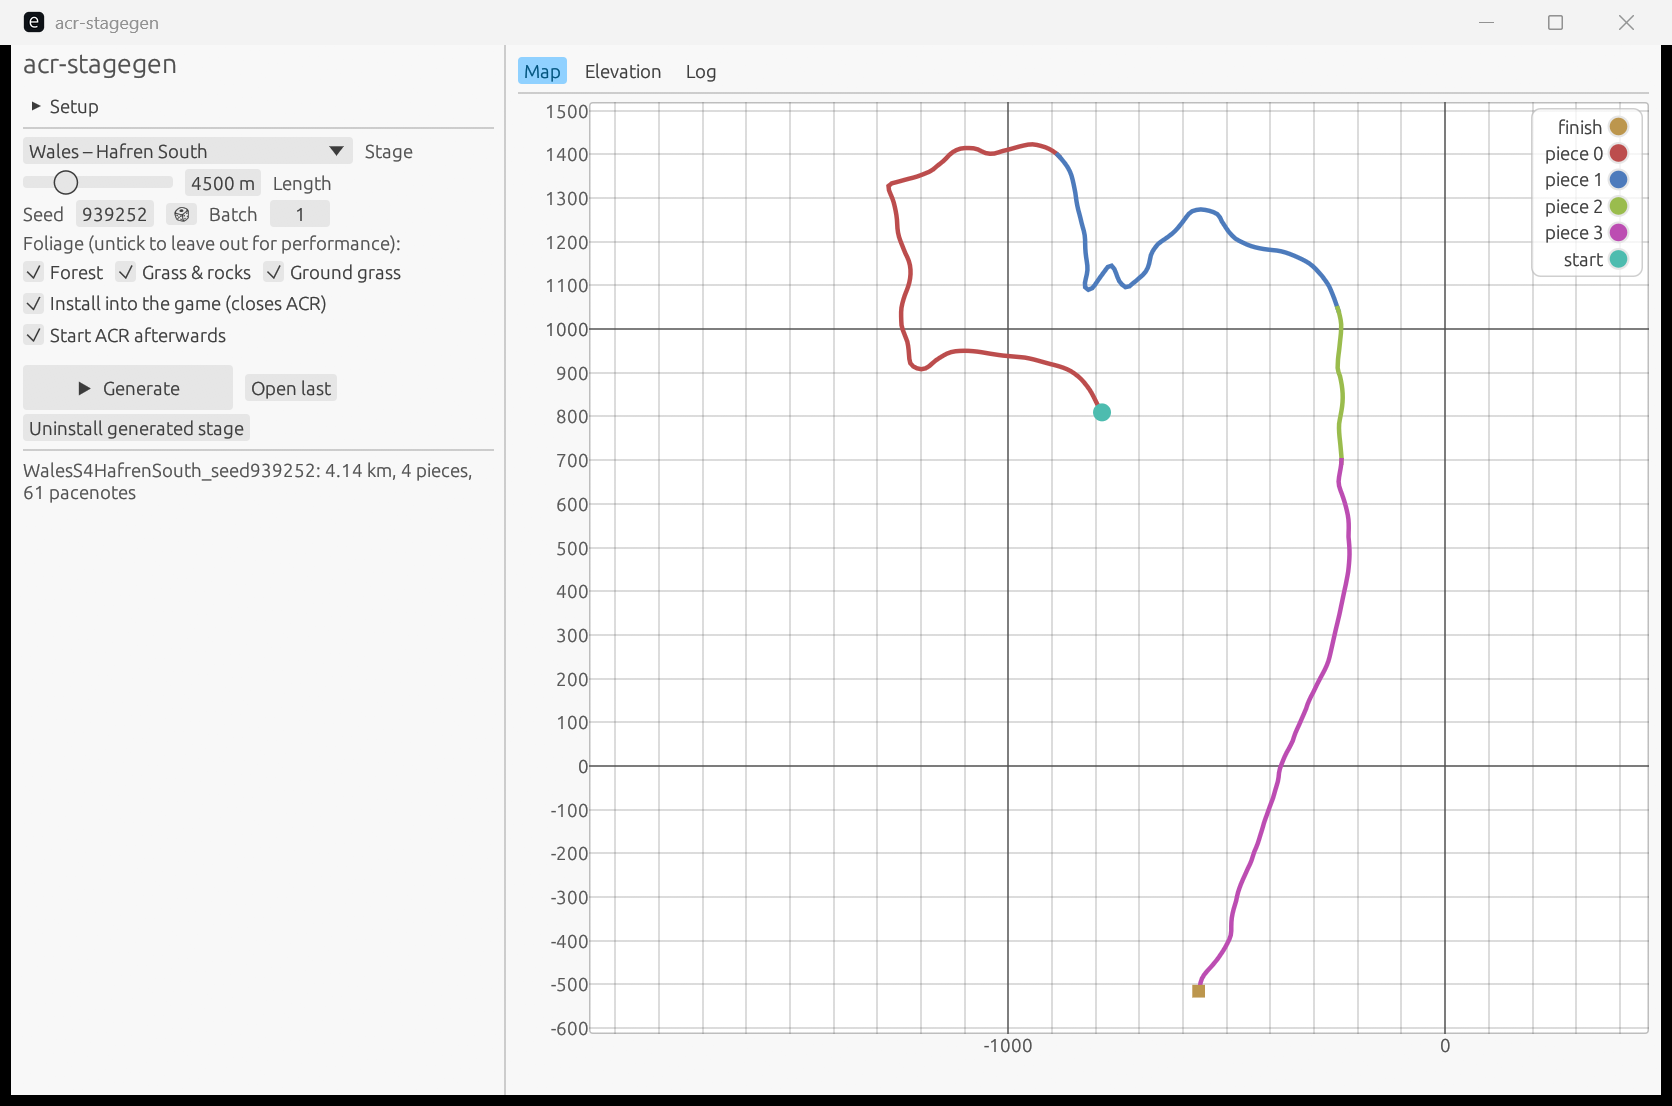
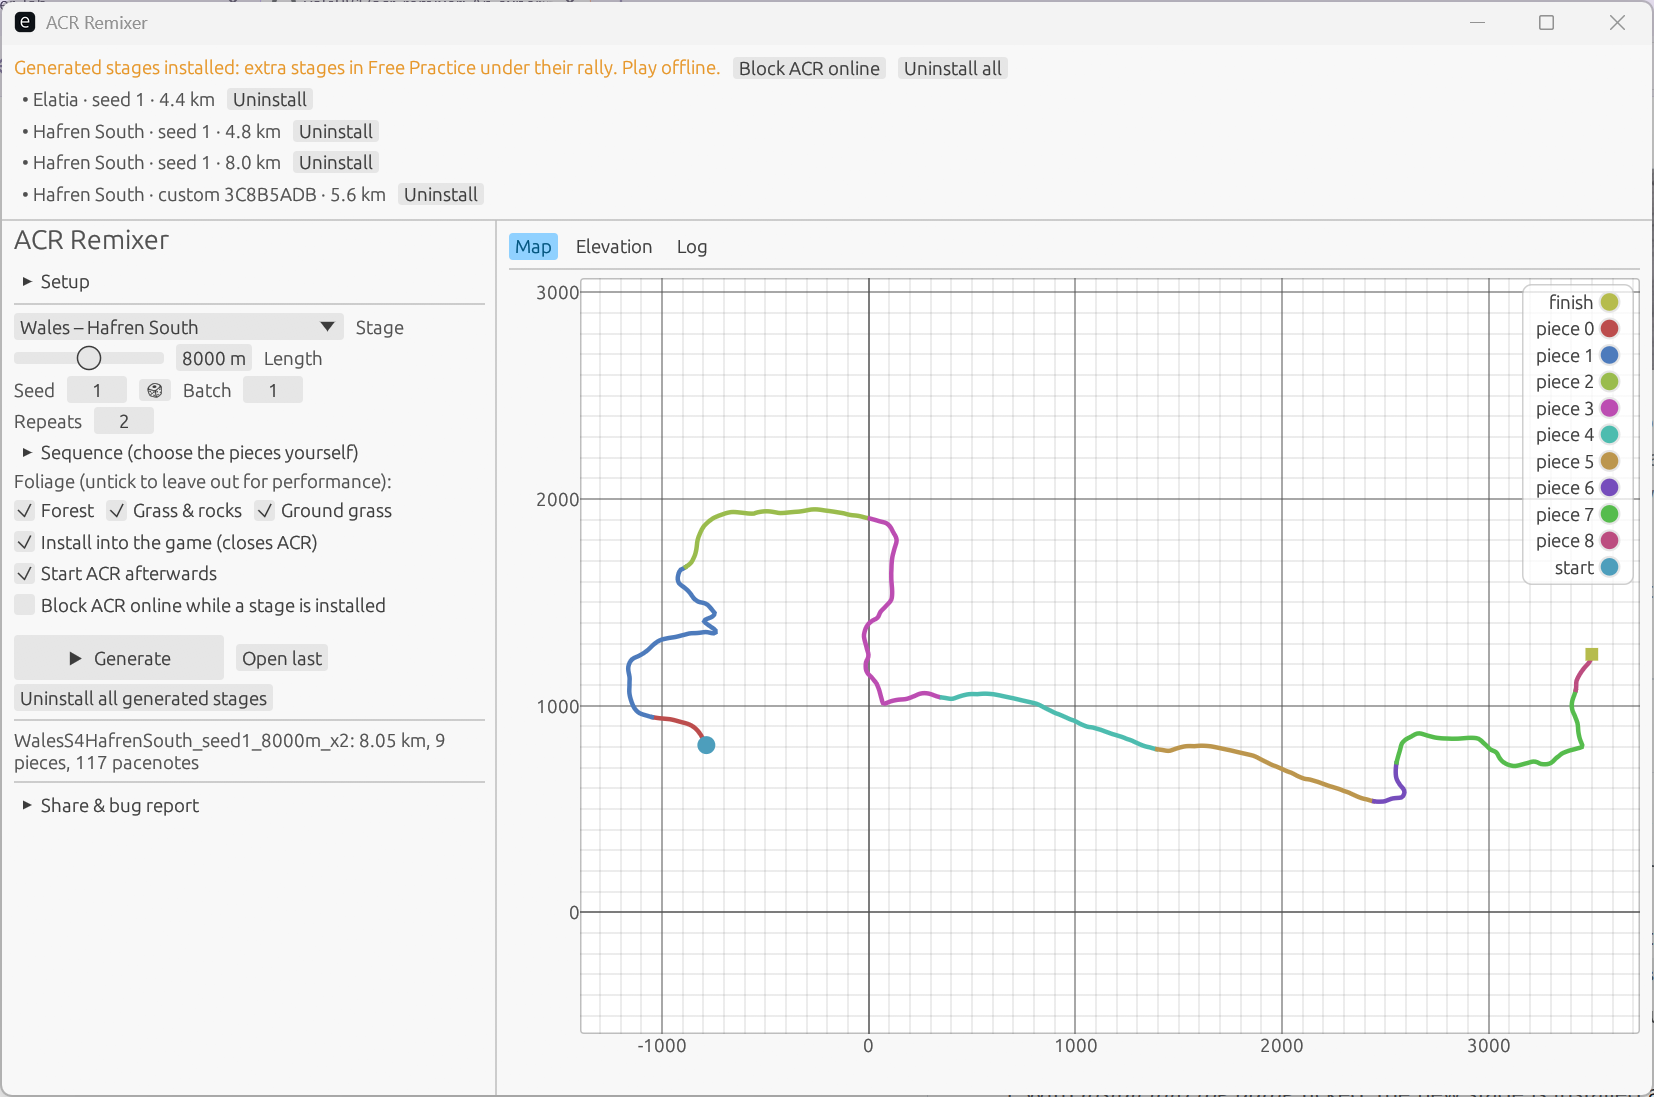
README: new GUI screenshots (8 km repeat stage, practice sequence)

diff --git a/README.md b/README.md
@@ -63,6 +63,8 @@ lists the installed stages, each with its own *Uninstall* button.
   directions fits best; the same direction twice usually leaves a sharp kink at
   the join, and the window warns about it).
 
+![A practice sequence: piece 7-11 four times](docs/gui-sequence.png)
+
 ## The options
 
 | Option | What it does |
